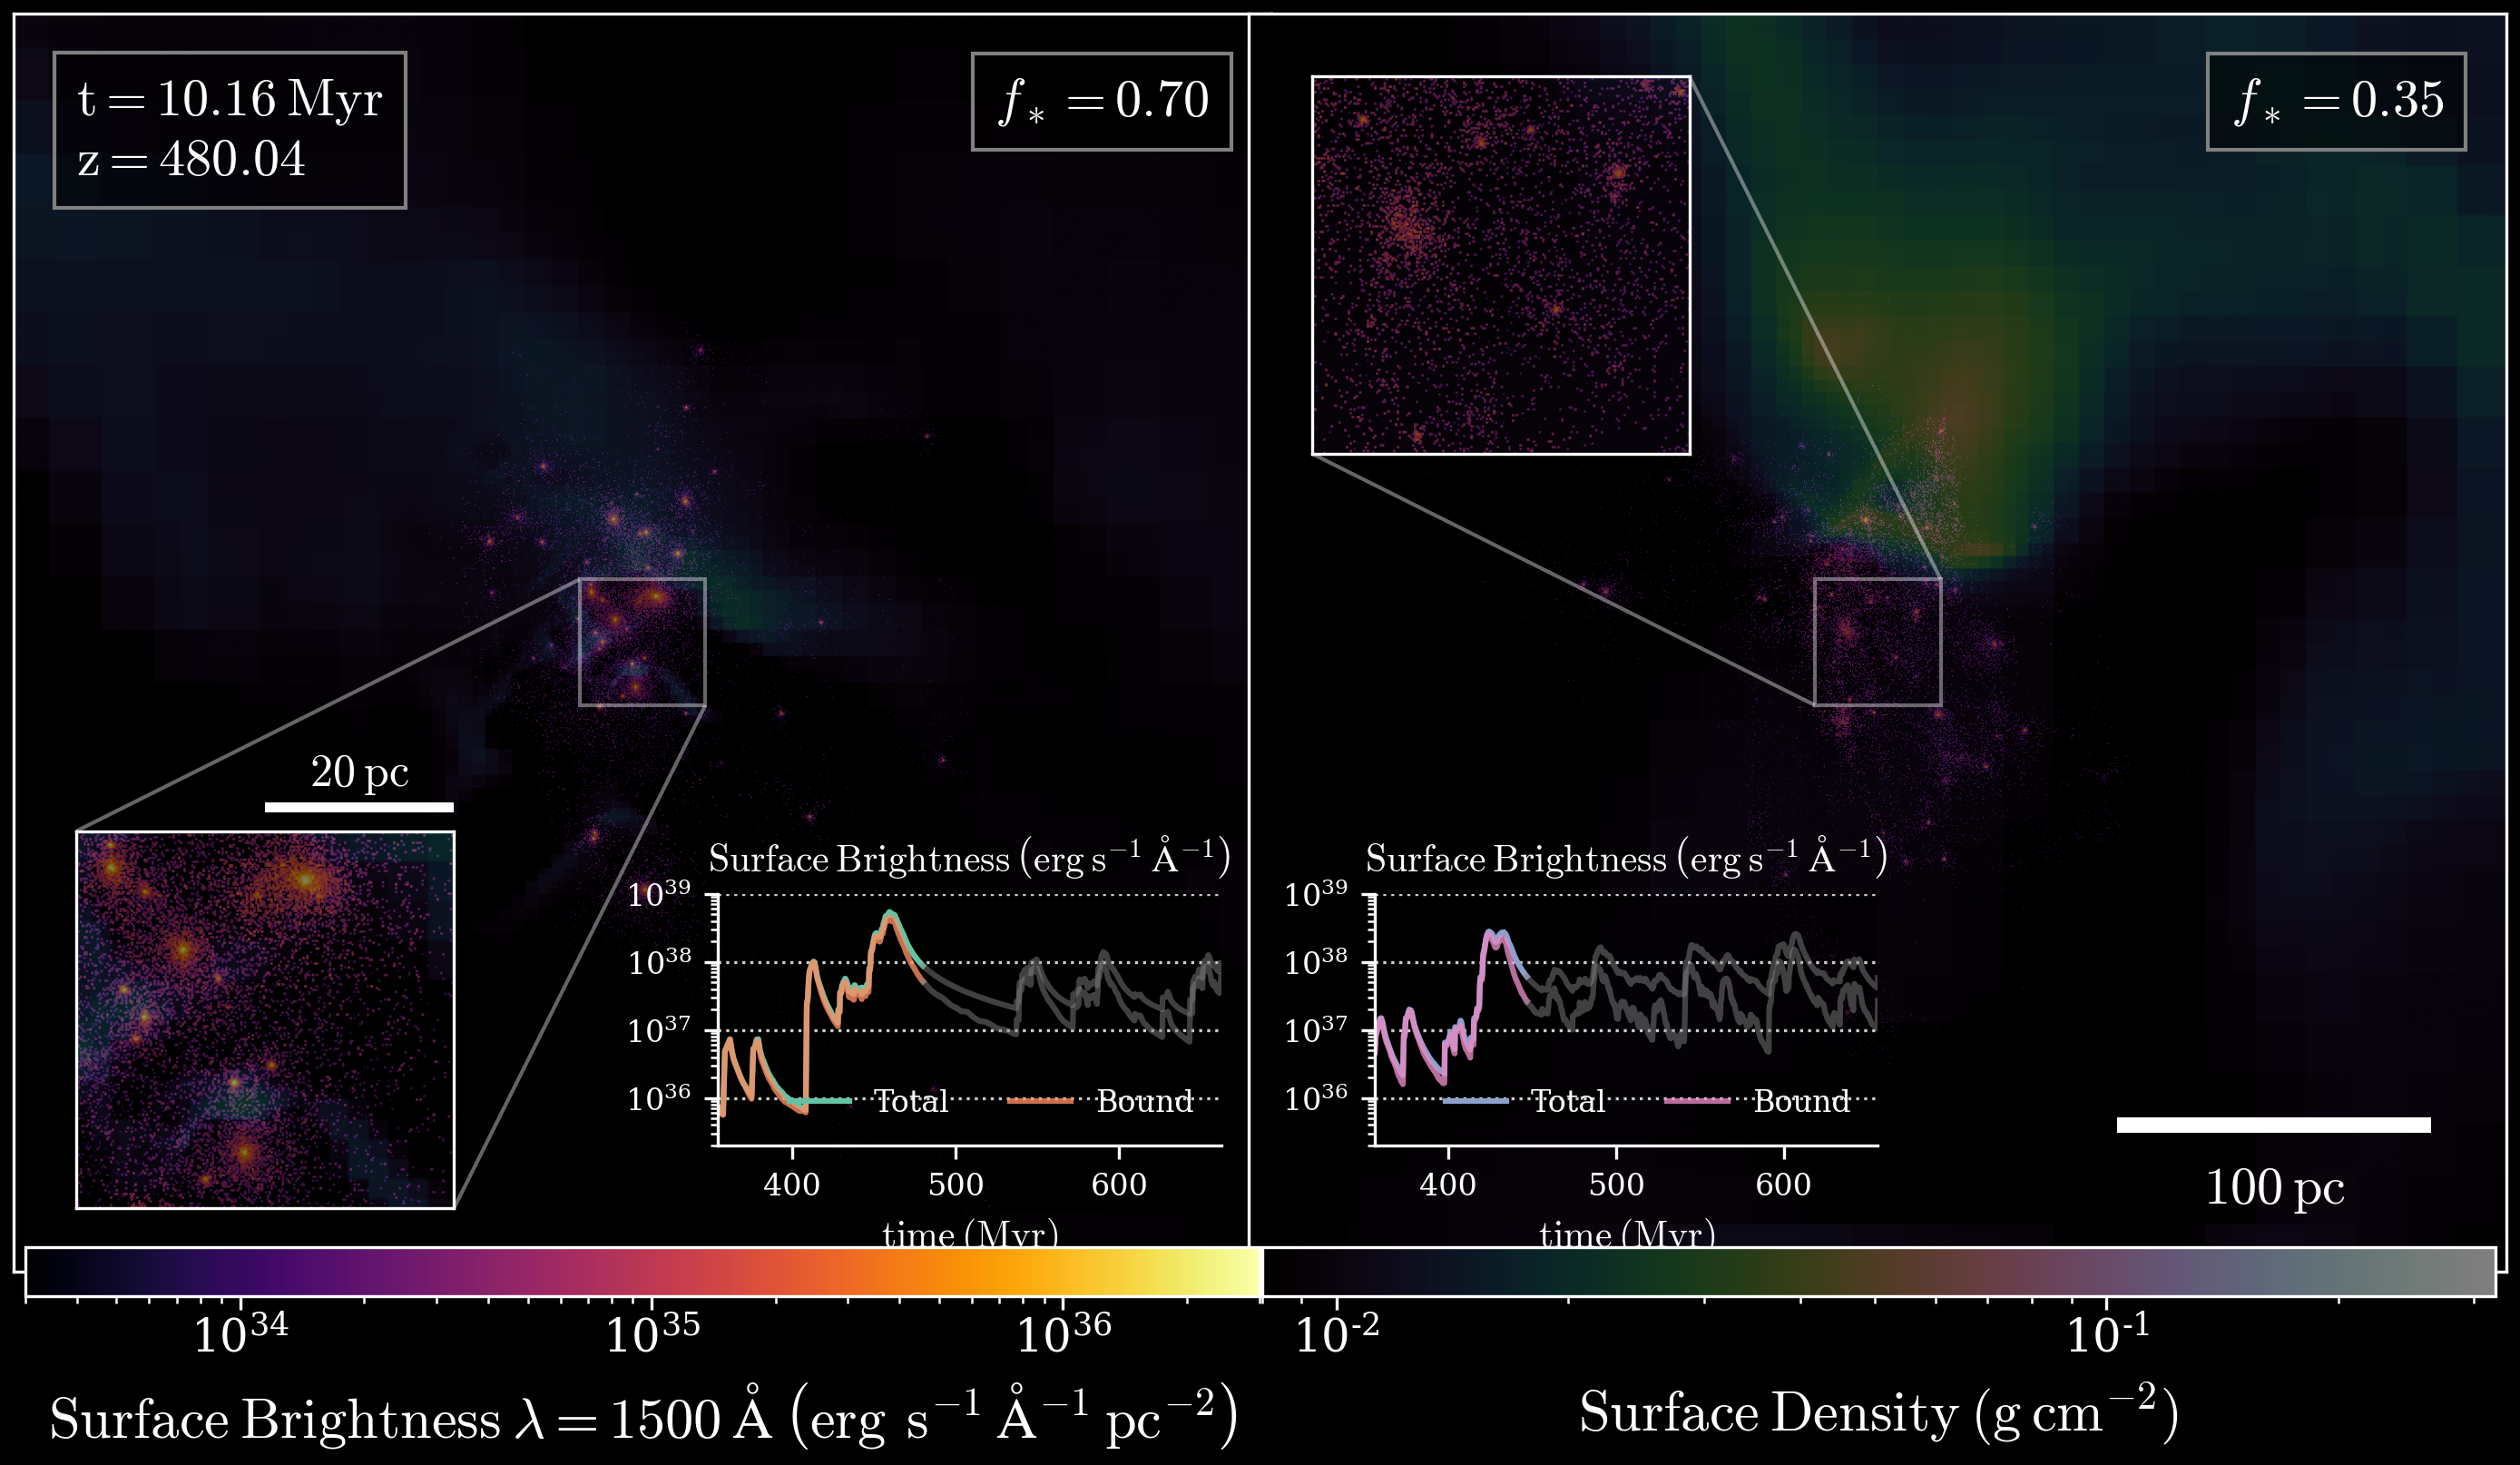
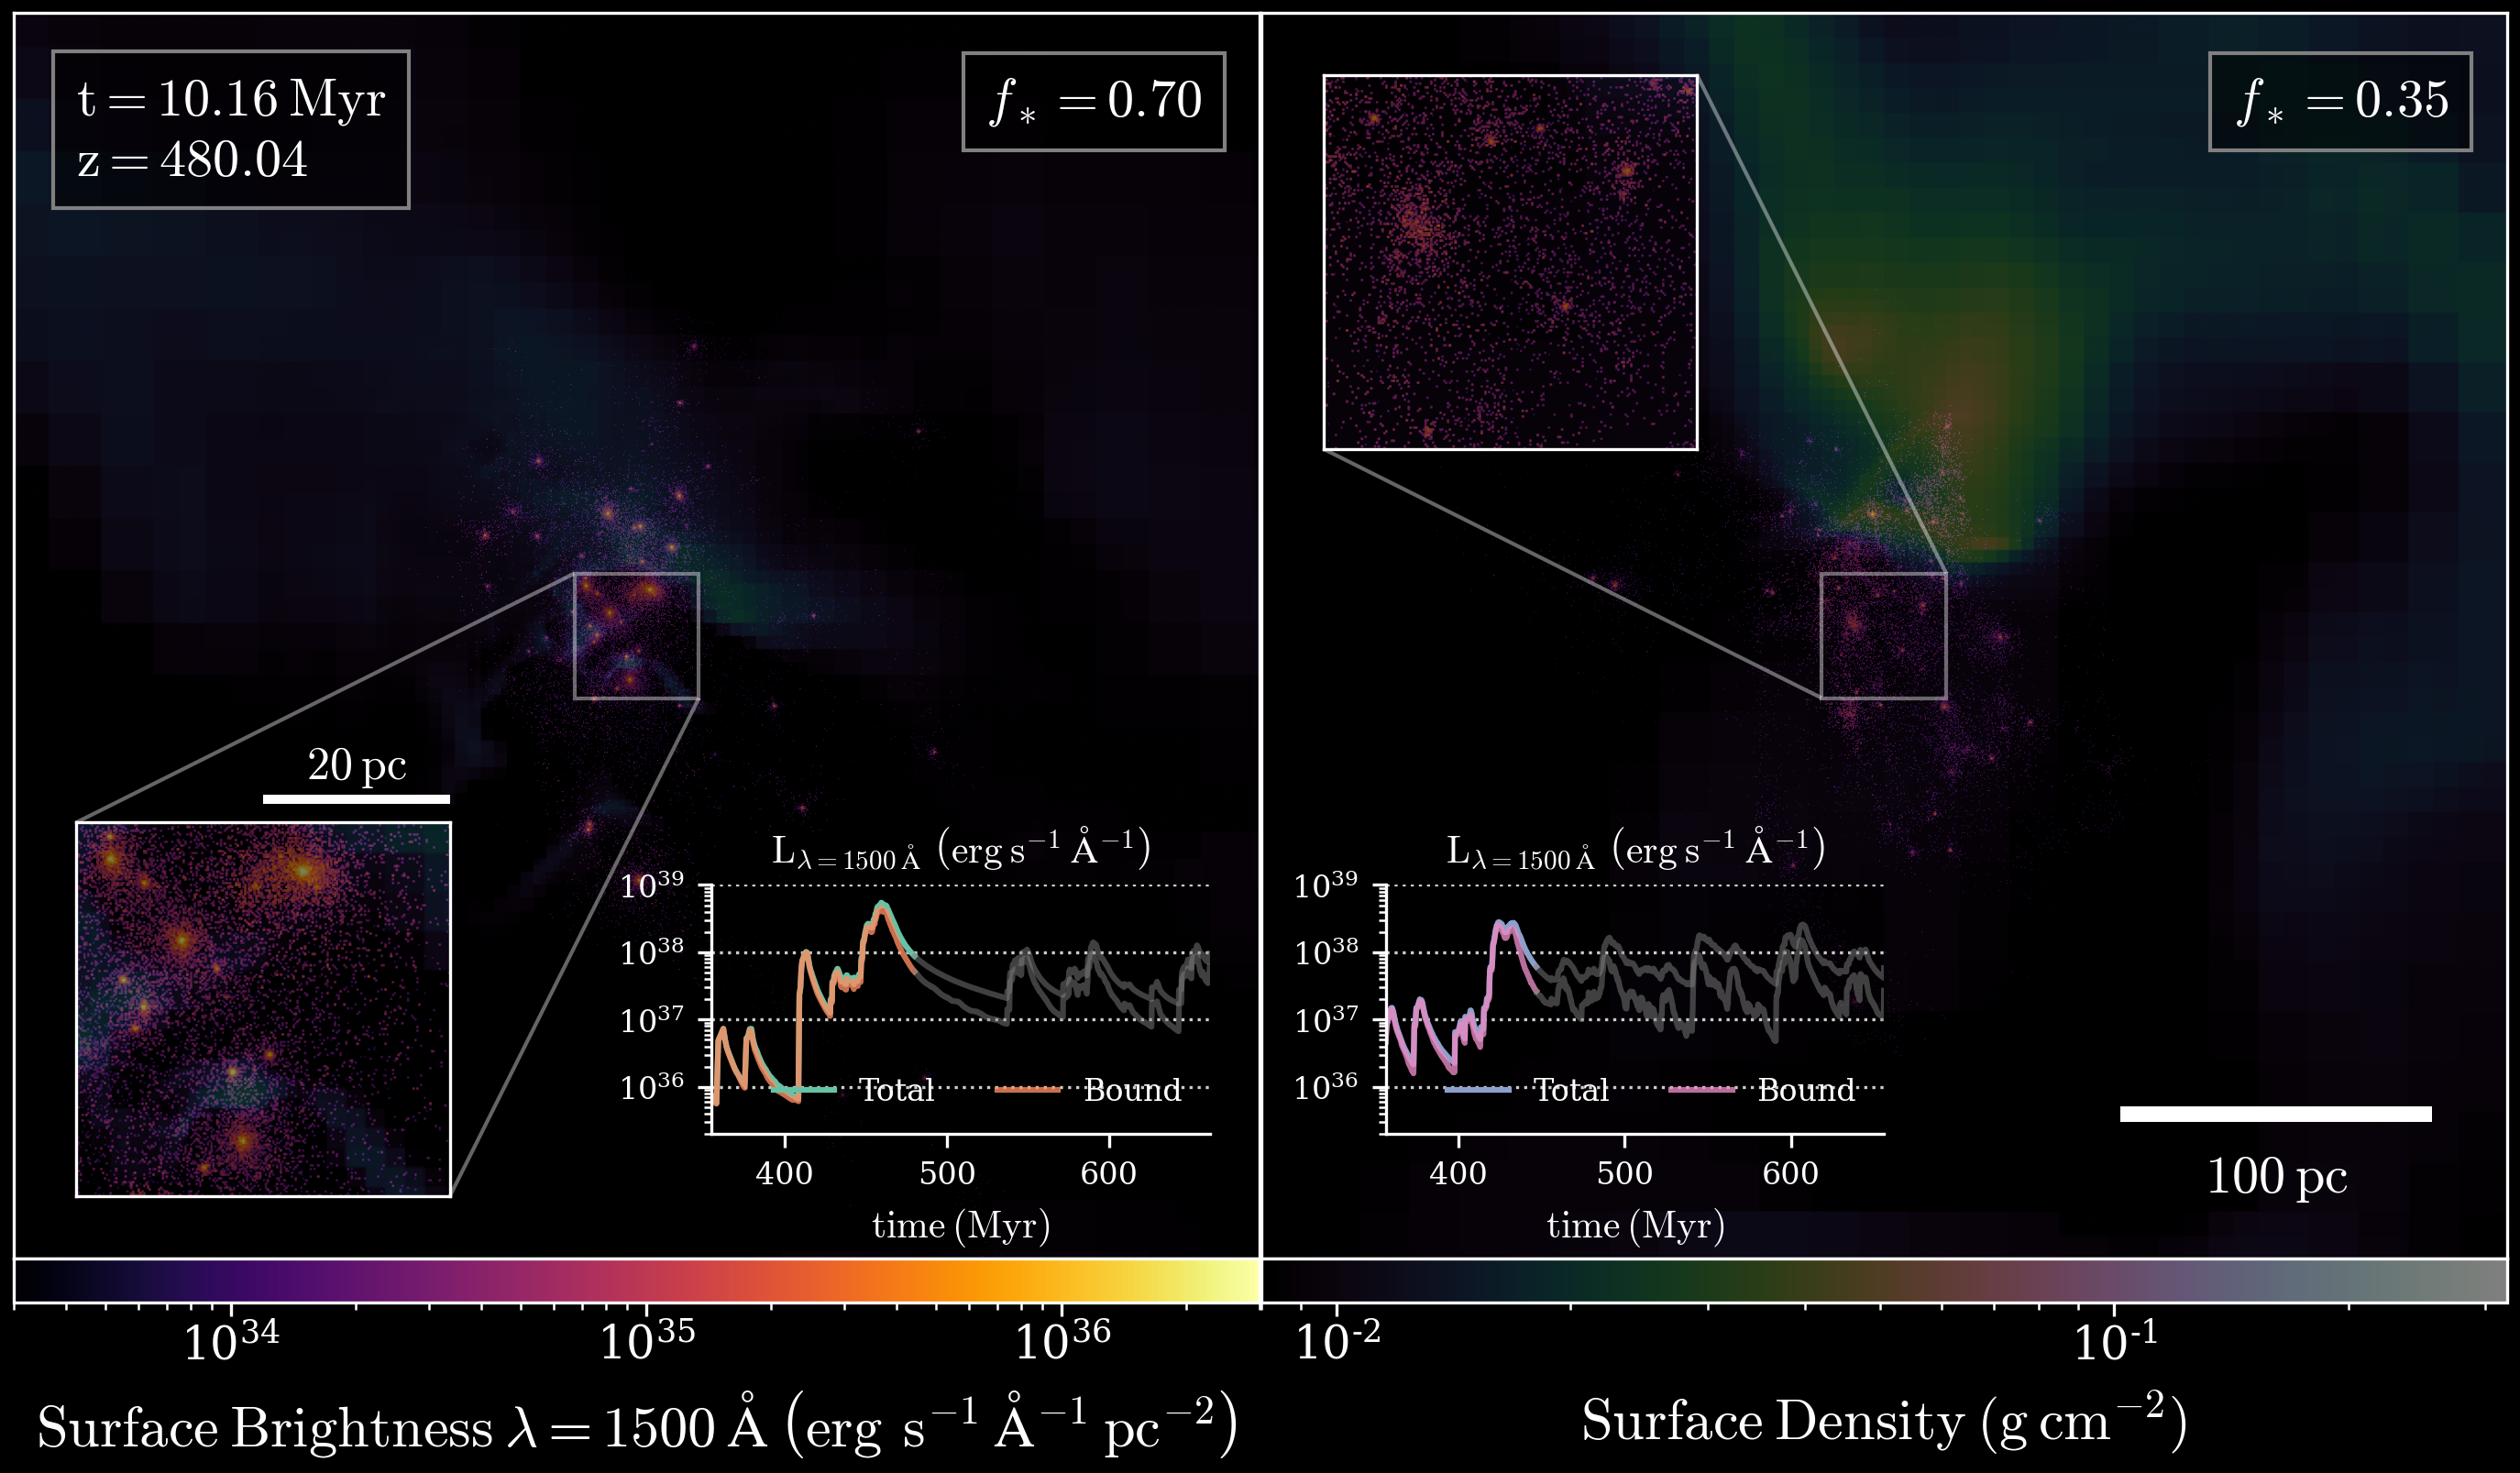
two panel

diff --git a/sci_plots/dm_halo_efficiency.py b/sci_plots/dm_halo_efficiency.py
@@ -24,8 +24,8 @@ f7_halo = np.loadtxt("./dm_data/fs070_dm_halo_evo.txt")
 f7_dm_mass = f7_halo[:, 3]
 f3_dm_mass = f3_halo[:, 3]
 
-f7_dm_mass = f7_dm_mass / 1e8
-f3_dm_mass = f3_dm_mass / 1e8
+f7_dm_mass = f7_dm_mass
+f3_dm_mass = f3_dm_mass
 
 
 f7_star_mass = f7_halo[:, 5]
@@ -41,7 +41,7 @@ with plt.rc_context(
     }
 ):
 
-    fig, ax = plt.subplots(nrows=1, ncols=1, figsize=(4.5, 4), dpi=300)
+    fig, ax = plt.subplots(nrows=1, ncols=1, figsize=(4, 4), dpi=300)
 
     sample_rate = 50
 
@@ -67,13 +67,9 @@ with plt.rc_context(
         np.log10(f7_dm_mass[f7_sample_rate]),
         lin(np.log10(f7_dm_mass[f7_sample_rate]), *f7_params),
         color=fs70_color,
-        label=r"$\alpha_{{\: 70\%}} = {:.2f} \pm {:.2f}$"
-        "\n"
-        r"$\log_{{10}} \: \varepsilon_{{\: 70 \%}} = {:.2f} \pm {:.2f}$".format(
+        label=r"$\alpha_{{\: 70\%}} = {:.2f} \pm {:.2f}$".format(
             f7_params[0],
             np.sqrt(np.diag(f7_pcov))[0],
-            f7_params[1],
-            np.sqrt(np.diag(f7_pcov))[1],
         ),
     )
 
@@ -99,20 +95,20 @@ with plt.rc_context(
         lin(np.log10(f3_dm_mass[f3_sample_rate]), *f3_params),
         color=fs35_color,
         label=r"$\alpha_{{\: 35 \%}} = {:.2f} \pm {:.2f}$"
-        "\n"
-        r"$\log_{{10}} \: \varepsilon_{{\: 35 \%}} = {:.2f} \pm {:.2f}$".format(
+        "\n".format(
             f3_params[0],
             np.sqrt(np.diag(f3_pcov))[0],
-            f3_params[1],
-            np.sqrt(np.diag(f3_pcov))[1],
+            # f3_params[1],
+            # np.sqrt(np.diag(f3_pcov))[1],
+            # r"$\log_{{10}} \: \varepsilon_{{\: 35 \%}} = {:.2f} \pm {:.2f}$".
         ),
     )
 
     ax.set(
         # yscale="log",
         # xscale="log",
-        xlabel=r"$\mathrm{ \log_{10} \: M_{DM} \: \left( 10^{-8} \:M_{\odot} \right) }$",
-        ylabel=r"$\mathrm{\log_{10} \: ( M_* / M_{DM} \times 10^{-8} } )  $",
+        xlabel=r"$\mathrm{ \log_{10} \: M_{halo} \: \left( \: M_{\odot} \right) }$",
+        ylabel=r"$\mathrm{\log_{10} \: ( M_* / M_{halo} } )  $",
     )
 
     legend = ax.legend(fontsize=11)
@@ -121,5 +117,5 @@ plt.savefig(
     "../../g_drive/Research/AstrophysicsSimulation/sci_plots/final/halo_eff.png",
     dpi=500,
     bbox_inches="tight",
-    pad_inches=0.05,
+    # pad_inches=0.25,
 )

diff --git a/visuals/two_panel.py b/visuals/two_panel.py
@@ -18,17 +18,17 @@ from mpl_toolkits.axes_grid1.inset_locator import mark_inset
 
 yt.enable_parallelism()
 
-f7_snap_range = (599, 1296)
-f3_snap_range = (179, 1469)
+# f7_snap_range = (599, 1296)
+# f3_snap_range = (179, 1469)
 
-# f7_snap_range = (500, 500)
-# f3_snap_range = (500, 500)
+f7_snap_range = (500, 500)
+f3_snap_range = (500, 500)
 
-fs070_dir = "/lustre/fgarcia4/ramses/dwarf/data/cluster_evolution/fs07_refine"
-fs035_dir = "/lustre/fgarcia4/ramses/dwarf/data/cluster_evolution/fs035_ms10"
+# fs070_dir = "/lustre/fgarcia4/ramses/dwarf/data/cluster_evolution/fs07_refine"
+# fs035_dir = "/lustre/fgarcia4/ramses/dwarf/data/cluster_evolution/fs035_ms10"
 
-# fs070_dir = os.path.relpath("../../cosm_test_data/refine"),
-# fs035_dir =  os.path.relpath("../../cosm_test_data/fs035_ms10/"),
+fs070_dir = os.path.relpath("../../cosm_test_data/refine")
+fs035_dir = os.path.relpath("../../cosm_test_data/fs035_ms10/")
 
 fs070_snap_dir = filter_snapshots(
     fs070_dir,
@@ -592,5 +592,5 @@ for m_i, (f7_gas, f3_gas) in enumerate(zip(f7_snap_f, f3_snap_f)):
         bbox_inches="tight",
         pad_inches=0.05,
     )
-    plt.close("all")
+    # plt.close("all")
     print(">Saved:", output_path)